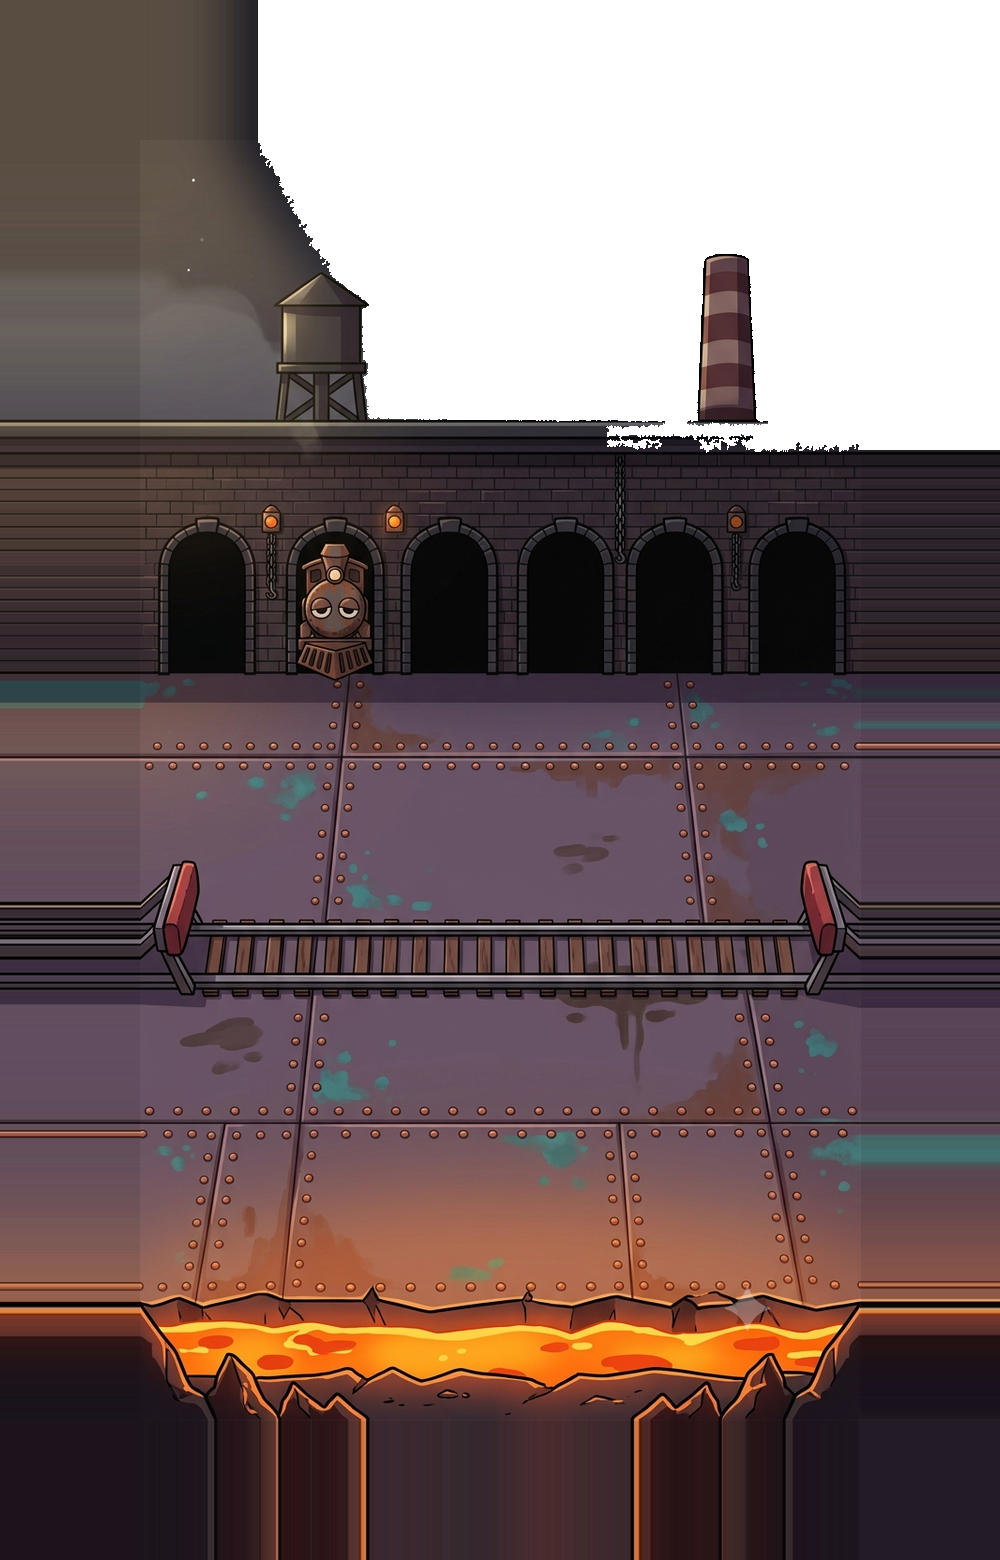
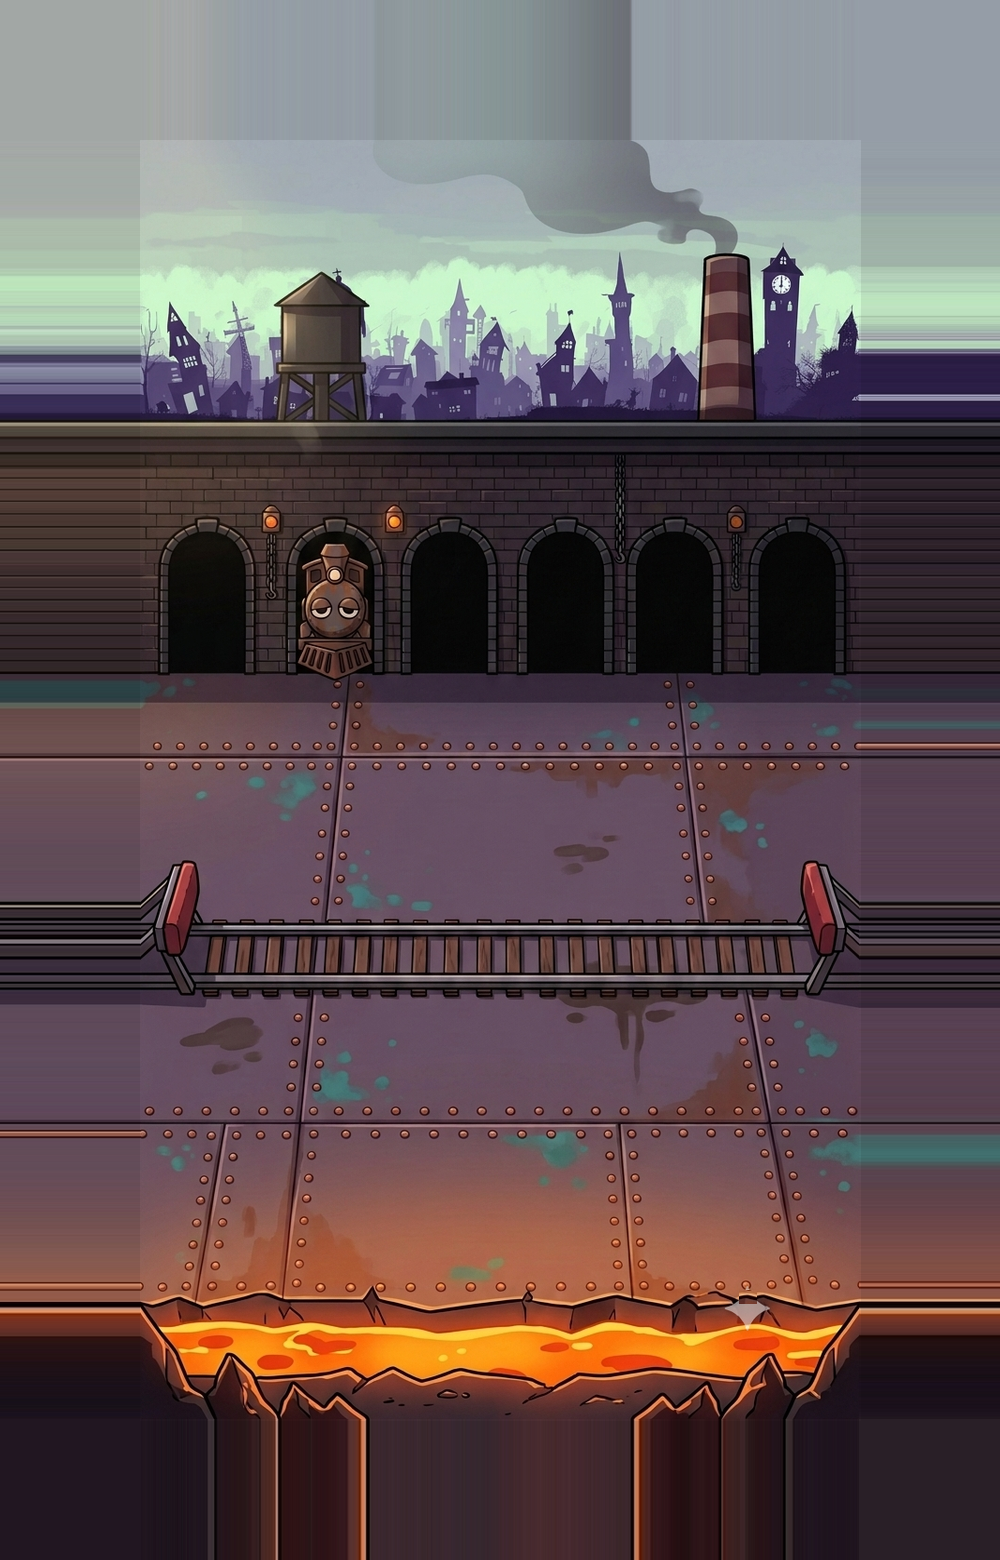
竞技场:新版整景图(天空自带空城天际线呼应主题)+右上角小推车点缀+炸弹爆炸效果加大

Changed region(s): [[0.0, 0.0, 1.0, 0.3077], [0.868, 0.8308, 1.0, 0.8615], [0.713, 0.8308, 0.775, 0.8615]]

diff --git a/assets/scripts/Chapter2Arena.ts b/assets/scripts/Chapter2Arena.ts
@@ -58,6 +58,7 @@ export class Chapter2Arena extends Component {
   private gunAsp = 1; private _muzzT = 0;
   private discOK = false;             // (弃)新石盘
   private yardOK = false;             // 机车库整景图已就位:代码只画动效
+  private cartN: Node | null = null;  // 左上角小推车(空城图复用)
   private readonly GUN_FX = 0.76;   // 枪座:帧内横向比例
   private readonly GUN_FY = 0.56;   // 枪座:高度比例(自底)
   private readonly GUN_SC = 0.88;   // 枪臂缩放
@@ -149,21 +150,6 @@ export class Chapter2Arena extends Component {
     const bgN = new Node('ar-bg'); bgN.layer = Layers.Enum.UI_2D; bgN.parent = this.world; bgN.addComponent(UITransform);
     this.bgG = bgN.addComponent(Graphics);
 
-    // 空城城景(复用跑酷段的图):远景+中景两层,藏在机车库房后只露天际线
-    const cityPeek = (key: string, dw: number, hCap: number, y: number, tint: Color, ord: number) => {
-      AssetHub.loadSF(key, (sf) => {
-        if (!sf || !this.SCENE_A) return;
-        const n = new Node('ar-peek-' + key); n.layer = Layers.Enum.UI_2D; n.parent = this.world;
-        const u = n.addComponent(UITransform); u.setAnchorPoint(0.5, 0);
-        const dh = Math.min(hCap, dw * sf.rect.height / sf.rect.width * 0.62);
-        u.setContentSize(dw, dh);
-        const sp = n.addComponent(Sprite); sp.sizeMode = Sprite.SizeMode.CUSTOM; sp.spriteFrame = sf;
-        sp.color = tint;
-        n.setPosition(0, y, 0);
-        n.setSiblingIndex(bgN.getSiblingIndex() + ord);
-      });
-    };
-    cityPeek('bg-far-city', W + 80, 300, 232, new Color(172, 163, 200, 255), 1);   // 远景城:垫在整景图下,被库房天际线挡住
     // 机车库整景图(方案A):墙+铁地+岩浆一张全包
     AssetHub.loadSF('arena-yard', (sf) => {
       if (!sf || !this.SCENE_A) return;
@@ -172,8 +158,21 @@ export class Chapter2Arena extends Component {
       u.setContentSize(1000, 1000 * sf.rect.height / sf.rect.width);   // 含140px出血,中央720区=设计屏
       const sp = n.addComponent(Sprite); sp.sizeMode = Sprite.SizeMode.CUSTOM; sp.spriteFrame = sf;
       n.setPosition(0, 0, 0);
-      n.setSiblingIndex(bgN.getSiblingIndex() + 2);   // 城景(+1)之上:图的天空已抠透明,房顶挡城
+      n.setSiblingIndex(bgN.getSiblingIndex() + 1);
       this.yardOK = true;
+    });
+    // 左上角小推车(复用空城的图,场景点缀)
+    AssetHub.loadSF('city-cart', (sf) => {
+      if (!sf || !this.SCENE_A) return;
+      const n = new Node('ar-cart'); n.layer = Layers.Enum.UI_2D; n.parent = this.world;
+      const u = n.addComponent(UITransform); u.setAnchorPoint(0.5, 0);
+      const dw = 150;
+      u.setContentSize(dw, dw * sf.rect.height / sf.rect.width);
+      const sp = n.addComponent(Sprite); sp.sizeMode = Sprite.SizeMode.CUSTOM; sp.spriteFrame = sf;
+      sp.color = new Color(235, 230, 242, 255);   // 夜色微调(轻)
+      n.setPosition(240, 86, 0);                  // 右上角,墙脚边
+      n.setSiblingIndex(bgN.getSiblingIndex() + 2);
+      this.cartN = n;
     });
     // 天空整图槽位(arena-sky,可选):有图就盖掉代码画的天色/星/齿轮月
     const bgNRef = bgN;
@@ -540,7 +539,7 @@ export class Chapter2Arena extends Component {
         bo.x = x0 + (bo.tx - x0) * k; bo.y = y0 + (ty - y0) * k + Math.sin(k * Math.PI) * 170;
         if (k >= 1) {
           this.zones.push({ x: bo.tx, d: bo.td, life: 0, max: 2 });
-          this.boomAt(bo.tx, ty + 34, 1.15);
+          this.boomAt(bo.tx, ty + 34, 1.7);
           this.addShake(9); this.spark(bo.tx, ty + 8, new Color(255, 176, 96, 255), 16, 1.6);
           AudioMgr.inst.play('land', 0.6);
           if (Math.abs(this.px - bo.tx) < 70 && Math.abs(this.pd - bo.td) < 0.18 && this.ph2 < 50) this.hurt(16, bo.tx);
@@ -551,7 +550,7 @@ export class Chapter2Arena extends Component {
         if (!this.bDead && Math.abs(bo.x - this.bx) < 90 && Math.abs(bo.y - (this.dy(this.bd) + 80)) < 100) {
           this.bhp -= 40; this._bhitT = 0.2; this.addStop(0.08); this.addShake(12); this.flash(bo.x, bo.y);
           this.spark(bo.x, bo.y, new Color(255, 176, 96, 255), 18, 1.7);
-          this.boomAt(bo.x, bo.y, 1.0);
+          this.boomAt(bo.x, bo.y, 1.5);
           if (this.bhp <= 0) this.killBoss();
           this.bombs.splice(i, 1);
         } else if (bo.x > W / 2 + 60 || bo.y < -H / 2) this.bombs.splice(i, 1);
@@ -644,23 +643,9 @@ export class Chapter2Arena extends Component {
 
   // ── 方案A:机车库·火车转盘(纯代码预览) ──
   private drawYard(g: Graphics) {
-    if (this.yardOK) {
-      // 夜空(整景图天空已抠透明):渐变+星子,垫在城景后面
-      const bands = [[22, 24, 37], [30, 32, 45], [42, 44, 58], [58, 60, 74], [74, 76, 91]];
-      const top = H * 1.3, bot = 170, bh = (top - bot) / bands.length;
-      for (let i = 0; i < bands.length; i++) {
-        const c = bands[i];
-        g.fillColor = new Color(c[0], c[1], c[2], 255);
-        g.rect(-W * 1.2, top - (i + 1) * bh, W * 2.4, bh + 1); g.fill();
-      }
-      for (let i = 0; i < 16; i++) {
-        const sx = -W / 2 + ((i * 271) % W) * 0.96 + 14, sy = 350 + ((i * 157) % 270);
-        const tw = 0.4 + 0.6 * Math.sin(this.t * 1.6 + i * 2.1);
-        g.fillColor = new Color(228, 224, 248, Math.round(150 * tw));
-        g.circle(sx, sy, i % 3 === 0 ? 2.2 : 1.4); g.fill();
-      }
-      return;
-    }
+    if (this.yardOK) return;   // 整景图自带天空+140px出血
+
+
     const cy = this.CY, RX = this.RXV, RY = this.RYV, t = this.t;
     // 夜空(暮紫烟霾)
     g.fillColor = new Color(20, 17, 30, 255); g.rect(-W / 2 - 20, -H / 2 - 20, W + 40, H + 40); g.fill();